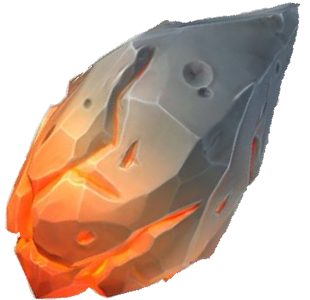
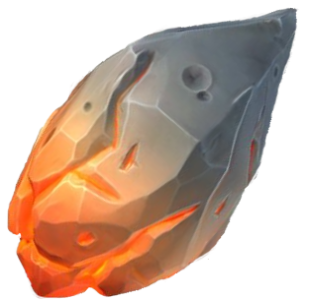
added hearth class, added meteorite GIF, little tweaks

diff --git a/src/me/simonhaasnoot/geinigspel/game/GameStateManager.java b/src/me/simonhaasnoot/geinigspel/game/GameStateManager.java
@@ -43,13 +43,9 @@ public class GameStateManager {
      * Constructor.
      */
     public GameStateManager() {
-        // FIXME: THIS IS SOME TEST CODE!
-
-//        GameObjectTest got = new GameObjectTest(10, 10, 100, 100);
-//        addGameObject(got);
 
         // Add the character object
-        wizardCharacter = new CharacterObject(479, 595);
+        wizardCharacter = new CharacterObject(GameFrame.FRAME_WIDTH/2, GameFrame.FRAME_HEIGHT - CharacterObject.SIZE_HEIGHT*1.85);
         addGameObject(wizardCharacter);
 
         // Start the timer
@@ -113,18 +109,18 @@ public class GameStateManager {
         // draw the sky
         g.drawImage(this.backgroundImg, 0, 0, GameManager.getGameFrame().getWidth(), GameManager.getGameFrame().getHeight(), null);
 
-        //FIXME draw warning after 60 seconds
-        // Font font = new Font("Times new roman", Font.PLAIN, 26);
-        String string = new String("haahahahahaahah");
-        g.drawString(string, 200, 150);
-
+        //FIXME might improve stuff here
+        if(FrameTime.time > 5 && FrameTime.time < 60) {
+            Font font = new Font("TimesRoman", Font.PLAIN, 26);
+            g.setFont(font);
+            g.setColor(Color.RED);
+            g.drawString("WARNING! " + " Incoming meteorites detected!", GameFrame.WIDTH / 2 + GameFrame.FRAME_HEIGHT / 4, GameFrame.FRAME_HEIGHT / 4);
+        }
 
         // Loop through all the game objects and paint them
         for(GameObject obj : this.gameObjects) {
             obj.paint(g);
         }
-
-
     }
 
     /**
@@ -137,7 +133,6 @@ public class GameStateManager {
 
         // Update all game objects
         this.gameObjects.forEach(GameObject::update);
-
 
         // Destroy all the game objects in the 'to destroy' list
         for(GameObject g : this.gameObjectsToDestroy)

diff --git a/src/me/simonhaasnoot/geinigspel/game/entity/HeartObject.java b/src/me/simonhaasnoot/geinigspel/game/entity/HeartObject.java
@@ -1,0 +1,78 @@
+package me.simonhaasnoot.geinigspel.game.entity;
+
+
+import java.awt.*;
+
+public class HeartObject extends ImageObject{
+
+    /**
+     * Define the Width of the hearts.
+     */
+    public static final int SIZE_WIDTH = 50;
+
+    /**
+     * Define the Height of the hearts.
+     */
+    public static final int SIZE_HEIGHT = 50;
+
+    /**
+     * Define the minimum lives u can have.
+     */
+    public static final int MIN_HEARTS = 1;
+
+    /**
+     * Define the current hearts.
+     */
+    public static final int CURRENT_HEARTS = 3;
+
+    /**
+     * Define the maximum hearts u can get.
+     */
+    public static final int MAX_HEARTS = 6;
+
+    /**
+     * The Heart image.
+     */
+    public static Image heartImg;
+
+    /** Constructor.
+     *
+     * @param x position of the heart.
+     * @param y position of the heart.
+     */
+    public HeartObject(double x, double y) {
+        this(x, y, SIZE_WIDTH, SIZE_HEIGHT, loadHeartImage());
+    }
+
+    /**
+     *
+     * @param x
+     * @param y
+     * @param width
+     * @param height
+     * @param img
+     */
+    public HeartObject(double x, double y, double width, double height, Image img) {
+        super(x, y, width, height, img);
+    }
+
+    /**
+     *
+     * @return heartImg;
+     */
+    public synchronized static Image loadHeartImage() {
+        // Return the fireball image if it's already loaded
+        if(heartImg != null)
+            return heartImg;
+
+        // TODO: Move image path into a constant!
+        heartImg = Toolkit.getDefaultToolkit().createImage("Images/Objects/gameHeart.png");
+        return heartImg;
+    }
+
+    public void update(){
+        super.update();
+
+    }
+
+}

diff --git a/src/me/simonhaasnoot/geinigspel/game/level/Level1.java b/src/me/simonhaasnoot/geinigspel/game/level/Level1.java
@@ -4,18 +4,27 @@ import me.simonhaasnoot.geinigspel.game.GameManager;
 import me.simonhaasnoot.geinigspel.game.GameStateManager;
 import me.simonhaasnoot.geinigspel.game.entity.CharacterObject;
 import me.simonhaasnoot.geinigspel.game.entity.FireballObject;
+import me.simonhaasnoot.geinigspel.game.entity.HeartObject;
 import me.simonhaasnoot.geinigspel.game.entity.MeteoriteObject;
+import me.simonhaasnoot.geinigspel.game.frame.GameFrame;
 import me.simonhaasnoot.geinigspel.game.time.FrameTime;
 
 import java.awt.*;
 
 public class Level1 extends BaseLevel {
 
+    public static int hearthPosition = 80;
+
     @Override
     public void start(GameStateManager gsm) {
         // Set the frame background
         GameManager.getGameStateManager().setBackgroundImage(Toolkit.getDefaultToolkit().createImage("Images/Landscape/1028x768BB.png"));
 
+        //FIXME this logic needs to be somewhere else
+        for (int i = 0; i < HeartObject.CURRENT_HEARTS; i++) {
+            GameManager.getGameStateManager().addGameObject(new HeartObject(GameManager.getGameFrame().getWidth() - hearthPosition, GameFrame.HEIGHT + HeartObject.SIZE_HEIGHT/4));
+            hearthPosition += 60;
+        }
     }
 
     @Override
@@ -25,9 +34,11 @@ public class Level1 extends BaseLevel {
             gsm.addGameObject(new FireballObject(Math.random() * GameManager.getGameFrame().getWidth() -FireballObject.SIZE_WIDTH, -FireballObject.SIZE_HEIGHT));
 
 
-        if(FrameTime.time > 60) {
+        if(FrameTime.time > 0) {
             if (Math.random() < FrameTime.time / ((Math.sqrt(FrameTime.time) *5) * 1000.0))
                 gsm.addGameObject(new MeteoriteObject(-300, -300));
-        }
+            }
     }
 }
+
+

diff --git a/src/me/simonhaasnoot/geinigspel/game/entity/MeteoriteObject.java b/src/me/simonhaasnoot/geinigspel/game/entity/MeteoriteObject.java
@@ -1,5 +1,7 @@
 package me.simonhaasnoot.geinigspel.game.entity;
 
+import me.simonhaasnoot.geinigspel.game.GameManager;
+
 import java.awt.*;
 
 
@@ -60,12 +62,16 @@ public class MeteoriteObject extends ImageObject{
             return meteoriteImg;
 
         // TODO: Move image path into a constant!
-        meteoriteImg = Toolkit.getDefaultToolkit().createImage("Images/Objects/meteoriteLeft.png");
+        meteoriteImg = Toolkit.getDefaultToolkit().createImage("Images/Objects/Gifs/MeteoriteGif100ms.gif");
         return meteoriteImg;
     }
 
     public void update(){
-        super.update();;
+        super.update();
+
+        if(hasCollision(GameManager.getGameStateManager().wizardCharacter)){
+            this.destroy();
+        }
     }
 
 }

diff --git a/src/me/simonhaasnoot/geinigspel/game/level/Level2.java b/src/me/simonhaasnoot/geinigspel/game/level/Level2.java
@@ -20,8 +20,8 @@ public class Level2 extends BaseLevel {
     @Override
     public void update(GameStateManager gsm) {
         // Spawn the fireballs
-        if(Math.random() < FrameTime.time / (Math.sqrt(FrameTime.time) * 250.0 / 150 ))
-            gsm.addGameObject(new FireballObject(Math.random() * GameManager.getGameFrame().getWidth() -FireballObject.SIZE_WIDTH, -FireballObject.SIZE_HEIGHT));
+        if (Math.random() < FrameTime.time / (Math.sqrt(FrameTime.time) * 250.0 / 150))
+            gsm.addGameObject(new FireballObject(Math.random() * GameManager.getGameFrame().getWidth() - FireballObject.SIZE_WIDTH, -FireballObject.SIZE_HEIGHT));
 
     }
 }

diff --git a/src/me/simonhaasnoot/geinigspel/game/level/BaseLevel.java b/src/me/simonhaasnoot/geinigspel/game/level/BaseLevel.java
@@ -2,6 +2,8 @@ package me.simonhaasnoot.geinigspel.game.level;
 
 import me.simonhaasnoot.geinigspel.game.GameStateManager;
 
+import java.awt.*;
+
 public abstract class BaseLevel {
 
     /**
@@ -17,4 +19,5 @@ public abstract class BaseLevel {
      * @param gsm The GameStateManager instance.
      */
     public abstract void update(GameStateManager gsm);
+
 }
